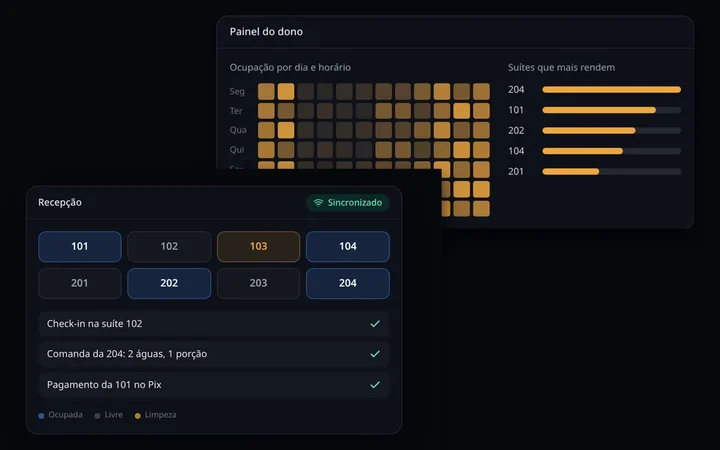
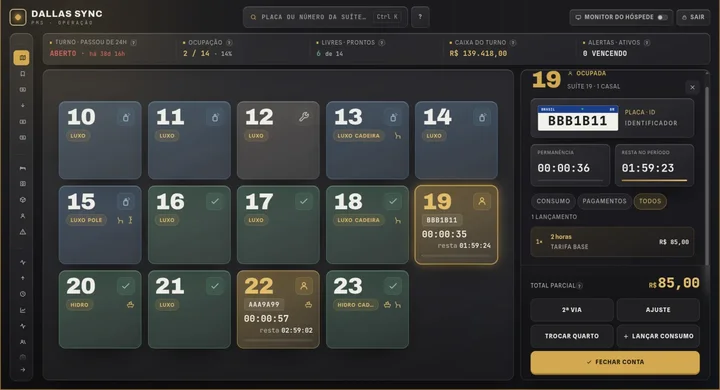
pausas entre as cenas e telas reais do Dallas Sync
- História e Trabalho: uma pausa no começo e no fim (cerca de 70% de
  uma tela), para a rolagem nunca entrar ou sair no meio do movimento;
  história com trilho de 6 telas
- Respiro de página antes do Trabalho e antes da Prova
- Dallas Sync: capturas reais do sistema em modo treino (card de
  Trabalho e capítulo Hoje), nota ajustada

Claude-Session: https://claude.ai/code/session_01VsPyKwR8ZdAdwxmhMw3aCD

diff --git a/src/app/scenes/Work.tsx b/src/app/scenes/Work.tsx
@@ -4,6 +4,7 @@ import { ArrowLeft, ArrowRight } from "lucide-react";
 
 import { WORK } from "../data/work";
 import { Draggable, ScrollTrigger, gsap } from "../scroll/gsap";
+import { span } from "../scroll/math";
 import { useScene } from "../scroll/useScene";
 import "./Work.css";
 
@@ -61,7 +62,12 @@ export function Work() {
     // Wide screens: the page scroll drives the cards.
     if (!isPhone && !reduced) {
       // a card's width of scroll per card, so each one has time to be read
-      const travel = () => -minX() * 1.4;
+      // a stretch of scroll before the first card moves and after the last
+      // one arrives, so the scene never starts or ends mid-motion
+      const holdPx = () => window.innerHeight * 0.7;
+      const travel = () => -minX() * 1.6 + 2 * holdPx();
+      const hold = () => holdPx() / Math.max(1, travel());
+      const at = (p: number) => span(p, hold(), 1 - hold());
       const st = ScrollTrigger.create({
         trigger: sectionRef.current,
         start: "top top",
@@ -70,16 +76,16 @@ export function Work() {
         scrub: true,
         invalidateOnRefresh: true,
         onUpdate: (self) => {
-          const x = minX() * self.progress;
+          const x = minX() * at(self.progress);
           gsap.set(track, { x });
           setFocus(nearest(x));
         },
-        onRefresh: (self) => gsap.set(track, { x: minX() * self.progress }),
+        onRefresh: (self) => gsap.set(track, { x: minX() * at(self.progress) }),
       });
       goTo.current = (i: number) => {
         const target = Math.max(0, Math.min(WORK.length - 1, i));
         const m = minX();
-        const p = m === 0 ? 0 : xFor(target) / m;
+        const p = m === 0 ? 0 : hold() + (xFor(target) / m) * (1 - 2 * hold());
         window.scrollTo({ top: st.start + p * (st.end - st.start), behavior: "smooth" });
       };
       ScrollTrigger.create({

diff --git a/src/app/data/story.ts b/src/app/data/story.ts
@@ -23,7 +23,7 @@ export const STORY: readonly StoryChapter[] = [
   { id: "ifsp", year: "2022", image: { src: `${S}/ifsp-1280.webp`, srcSet: `${S}/ifsp-640.webp 640w, ${S}/ifsp-1280.webp 1280w` } },
   { id: "dallas", year: "2023", image: { src: `${P}/dallas-720.webp`, srcSet: `${P}/dallas-720.webp 720w, ${P}/dallas.webp 1919w` } },
   { id: "omd", year: "2024", image: { src: `${P}/omdfarm-720.webp` } },
-  { id: "hoje", year: "hoje", image: { src: `${P}/dallas-sync-720.webp`, srcSet: `${P}/dallas-sync-720.webp 720w, ${P}/dallas-sync-1440.webp 1440w` } },
+  { id: "hoje", year: "hoje", image: { src: `${P}/dallas-sync-op-720.webp`, srcSet: `${P}/dallas-sync-op-720.webp 720w, ${P}/dallas-sync-op-1440.webp 1440w` } },
 ];
 
 /** Index of the chapter in focus at story progress `p`. */

diff --git a/src/app/scenes/Story.tsx b/src/app/scenes/Story.tsx
@@ -22,8 +22,8 @@ export function Story(props: { mode: "rail"; progress: Signal<number> } | { mode
     moved aside (HeroCity's ASIDE_TO is 0.1), travels, then leaves. */
 const ENTER_FROM = 0.03;
 const ENTER_TO = 0.08;
-const TRAVEL_FROM = 0.07;
-const TRAVEL_TO = 0.86;
+const TRAVEL_FROM = 0.19;
+const TRAVEL_TO = 0.85;
 
 /** The chapter's picture: a photo, or a drawing where no photo fits. */
 function ChapterImage({ chapter }: { chapter: StoryChapter }) {

diff --git a/src/app/components/hero/HeroCity.tsx b/src/app/components/hero/HeroCity.tsx
@@ -44,7 +44,7 @@ const TRACK_PHONE = 3.15;
 const TRACK_REDUCED = 1.2;
 /** Desktop only: the story plays on in the same pinned stage, for this many
     more screens, with the framed photo moved aside. */
-const STORY_TRACK = 5;
+const STORY_TRACK = 6;
 /** Story beat, over story progress: the frame moves aside, and stays there
     until the released stage carries it off the top. */
 const ASIDE_TO = 0.05;

diff --git a/src/app/scenes/Proof.css b/src/app/scenes/Proof.css
@@ -3,7 +3,8 @@
 .proof {
   position: relative;
   z-index: 10;
-  padding: clamp(4rem, 10vh, 6.5rem) var(--gutter) clamp(3rem, 8vh, 5rem);
+  /* the work unpins into a full breath of page before the figures */
+  padding: clamp(8rem, 24vh, 14rem) var(--gutter) clamp(3rem, 8vh, 5rem);
   background: #050608;
   color: #eef1f6;
   border-top: 1px solid rgb(255 255 255 / 0.08);

diff --git a/src/app/scenes/Work.css b/src/app/scenes/Work.css
@@ -245,6 +245,8 @@
    cards pass, so the card's height is taken from what the screen has left. */
 @media (min-width: 768px) {
   .work {
+    /* a breath of empty page after the story, before the work pins */
+    margin-top: 30svh;
     height: 100svh;
     padding: 5.5rem 0 1.25rem;
     display: flex;
